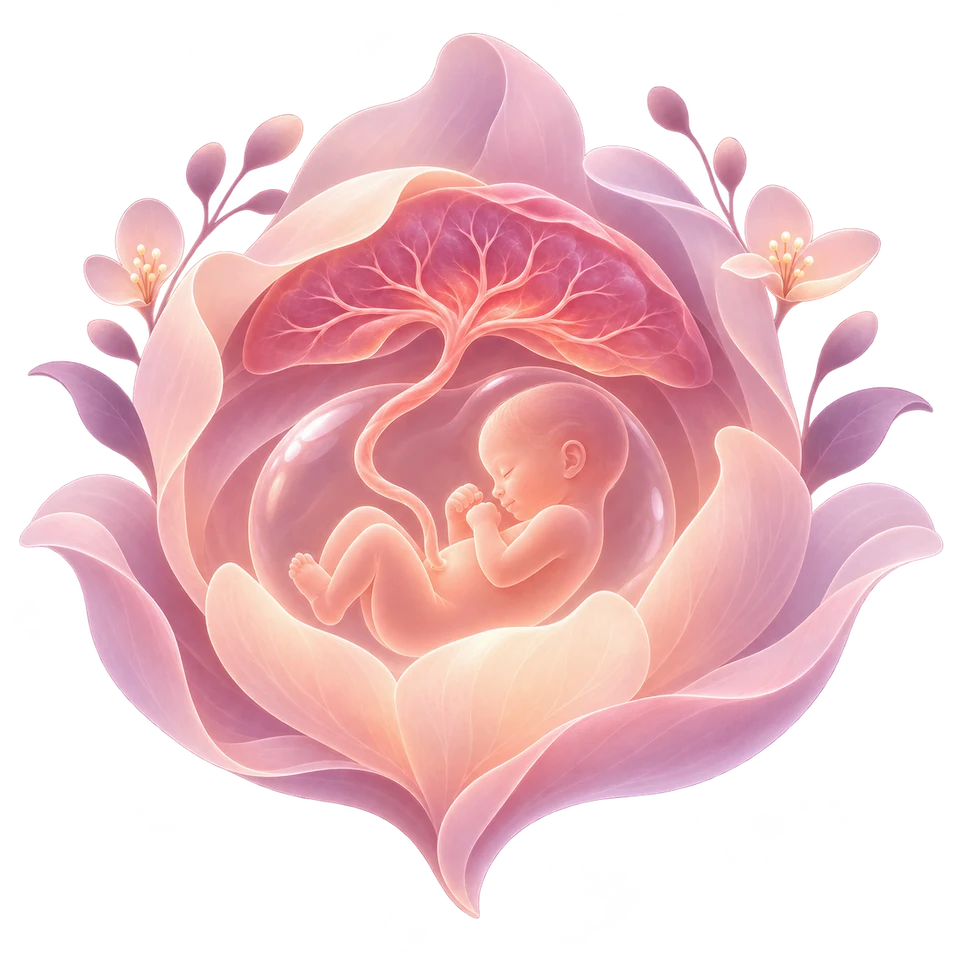
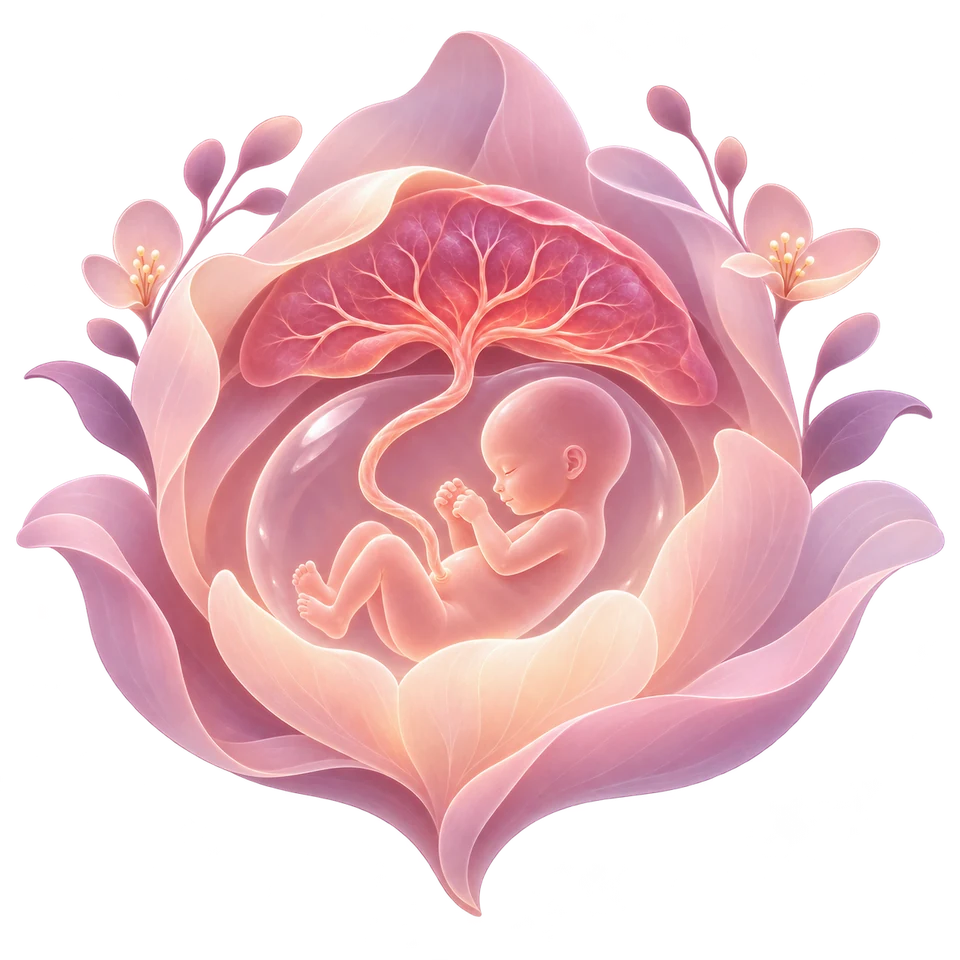
Pregnancy art: use the named emb-01…emb-09 originals from Google Drive
- All nine stages now have artwork (emb-09 added, new emb-01); emb-02…emb-09 are byte-identical to
  the earlier uploads and land in the same order
- Originals in design/pregnancy, optimised WebP in app/assets/pregnancy; month 9 no longer falls back
- Screen-reader descriptions updated to the final artwork

Claude-Session: https://claude.ai/code/session_01MSWr9YJh93DQjGqFjrqjsk

diff --git a/app/src/pregnancyArt.tsx b/app/src/pregnancyArt.tsx
@@ -20,17 +20,17 @@ export const PREGNANCY_ART: Record<PregnancyStage, ImageSourcePropType | null> =
   6: require('../assets/pregnancy/emb-06.webp'),
   7: require('../assets/pregnancy/emb-07.webp'),
   8: require('../assets/pregnancy/emb-08.webp'),
-  9: null,
+  9: require('../assets/pregnancy/emb-09.webp'),
 };
 
 /** Screen-reader descriptions (no medical measurements). */
 const ALT: Record<PregnancyStage, string> = {
-  1: 'Month 1 illustration: a tiny early embryo in a soft sac, cradled inside a pink flower and joined to the placenta.',
-  2: 'Month 2 illustration: a small embryo with a large head, curled inside a flower and joined to the placenta.',
-  3: 'Month 3 illustration: a small baby with arms and legs, curled inside a flower and joined to the placenta.',
-  4: 'Month 4 illustration: a growing baby curled inside a flower, joined to the placenta.',
-  5: 'Month 5 illustration: a growing baby with hands near the face, curled inside a flower.',
-  6: 'Month 6 illustration: a larger baby curled inside a flower, joined to the placenta.',
+  1: 'Month 1 illustration: a tiny early form in a small sac, cradled inside a pink flower and joined to the placenta.',
+  2: 'Month 2 illustration: a small curled embryo in its sac, inside a pink flower and joined to the placenta.',
+  3: 'Month 3 illustration: a small baby with a large head, arms and legs, curled inside the flower.',
+  4: 'Month 4 illustration: a growing baby with hands near the face, curled inside the flower.',
+  5: 'Month 5 illustration: a growing baby curled inside the flower, joined to the placenta.',
+  6: 'Month 6 illustration: a larger baby with hands near the face, curled inside the flower.',
   7: 'Month 7 illustration: a baby filling more of the sac inside the flower.',
   8: 'Month 8 illustration: a well-rounded baby curled inside the flower.',
   9: 'Month 9 illustration: a fully grown baby curled up, ready to be born, inside the flower.',

diff --git a/docs/FEATURES.md b/docs/FEATURES.md
@@ -505,7 +505,7 @@ Cycle reminders pause in pregnancy mode. On the web, reminders are set up from t
   - when the app returns to the foreground;
   - when the pregnancy date is edited.
 - **Stage changes:** the old image fades out while the new one fades in (about 0.5 s). Reduced-motion settings skip the animation.
-- **Missing artwork or dating:** a missing image falls back to the flower artwork. A missing or invalid pregnancy date shows a "Set pregnancy dates" prompt.
+- **Missing artwork or dating:** all nine images are present (from the named originals in Google Drive). If an image were ever missing it would fall back to the flower artwork. A missing or invalid pregnancy date shows a "Set pregnancy dates" prompt.
 - **Also used in:** the week-by-week sheet and the partner's view of a pregnancy.
 - **Assets:** originals are in `design/pregnancy/emb-0x.png`; the app bundles optimised copies from `app/assets/pregnancy/emb-0x.webp`. The single stage→image map is `PREGNANCY_ART` in `app/src/pregnancyArt.tsx`.
 
